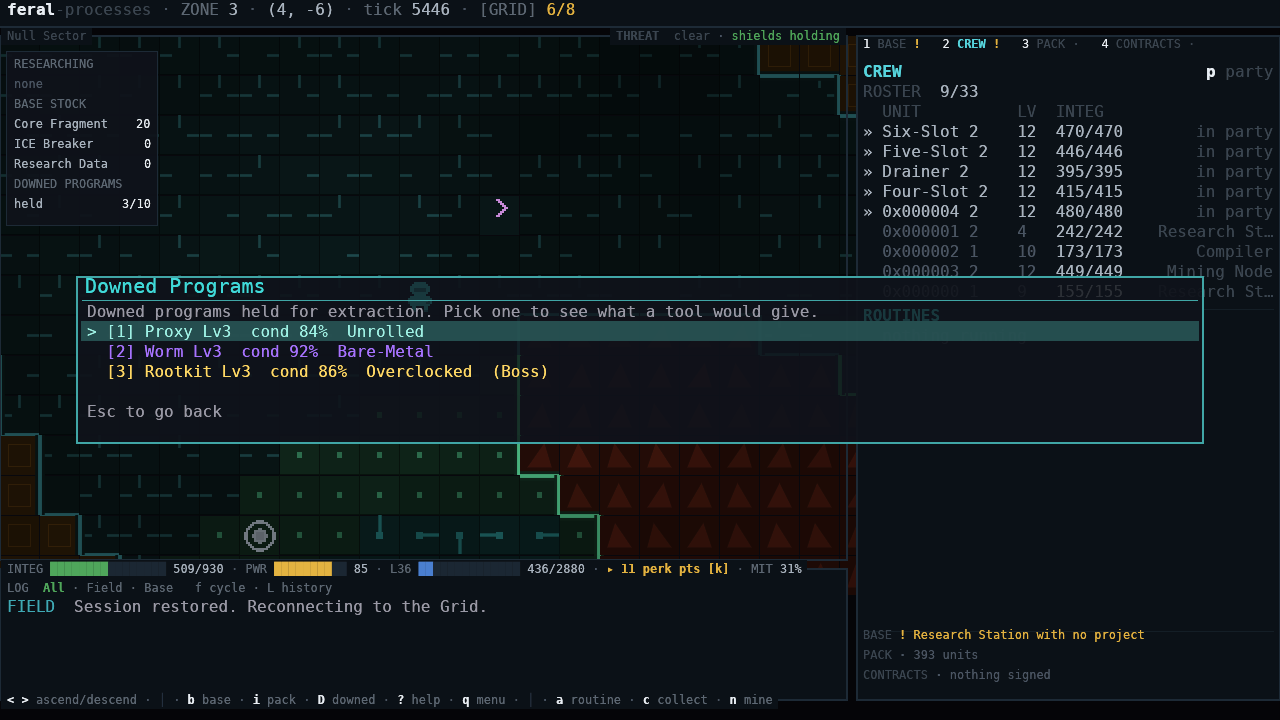
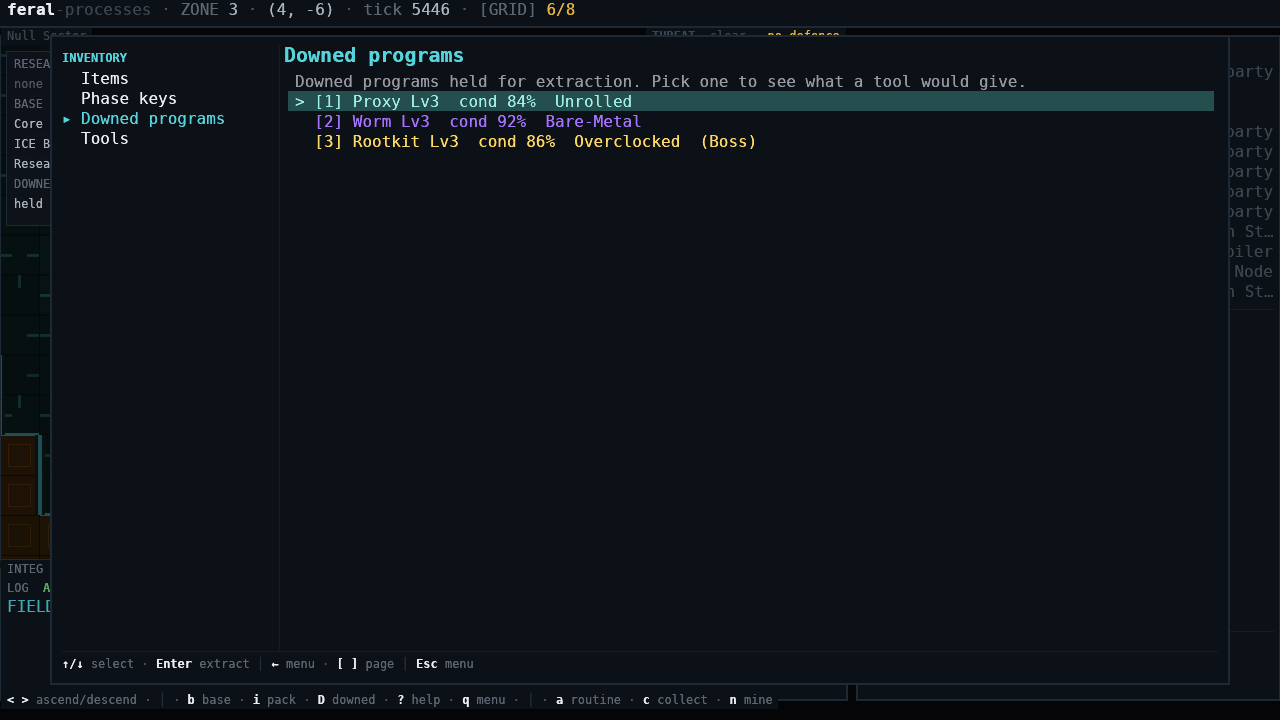
Gallery: the inventory hub's Items page; Downed programs retaken in the hub

diff --git a/index.html b/index.html
@@ -746,8 +746,12 @@ footer{border-top:1px solid var(--line-soft);padding:64px 0 48px;background:#090
         <figcaption>The roster.</figcaption>
       </figure>
       <figure class="shot">
-        <img src="img/downed.png" alt="The Downed Programs list: three beaten programs waiting to be broken down, with their condition and rarity" width="1280" height="720" loading="lazy">
+        <img src="img/downed.png" alt="The Downed programs page of the inventory: three beaten programs waiting to be broken down, with their condition and rarity, and the inventory's pages listed down the left" width="1280" height="720" loading="lazy">
         <figcaption>Beaten programs waiting to be broken down.</figcaption>
+      </figure>
+      <figure class="shot full">
+        <img src="img/inventory.png" alt="The inventory's Items page: the equipped weapon, armour and mod, then every item carried with its type, rating and stats, and the pages Items, Phase keys, Downed programs and Tools listed down the left" width="1280" height="720" loading="lazy">
+        <figcaption>The inventory. Gear you're wearing at the top, everything you carry below it.</figcaption>
       </figure>
     </div>
   </div>

diff --git a/README.md b/README.md
@@ -32,7 +32,8 @@ cargo run -- --template <name> --keys "<keys>" --screenshot out.png
 | `report-overview.png` | `--template chains --keys "B"` |
 | `memories.png` | `--template bonds --keys "p Enter R"` |
 | `roster.png` | `--template bonds --keys "p Enter"` |
-| `downed.png` | `--template bonds --keys "D"` |
+| `downed.png` | `--template bonds --keys "D"` (inventory, Downed programs page) |
+| `inventory.png` | `--template bonds --keys "i Right"` (inventory, Items page) |
 | `towns.png` | `--template settlements` |
 | `world-map.png` | `--template world-map --keys "g"` |
 | `stack.png` | `--template stack` |
